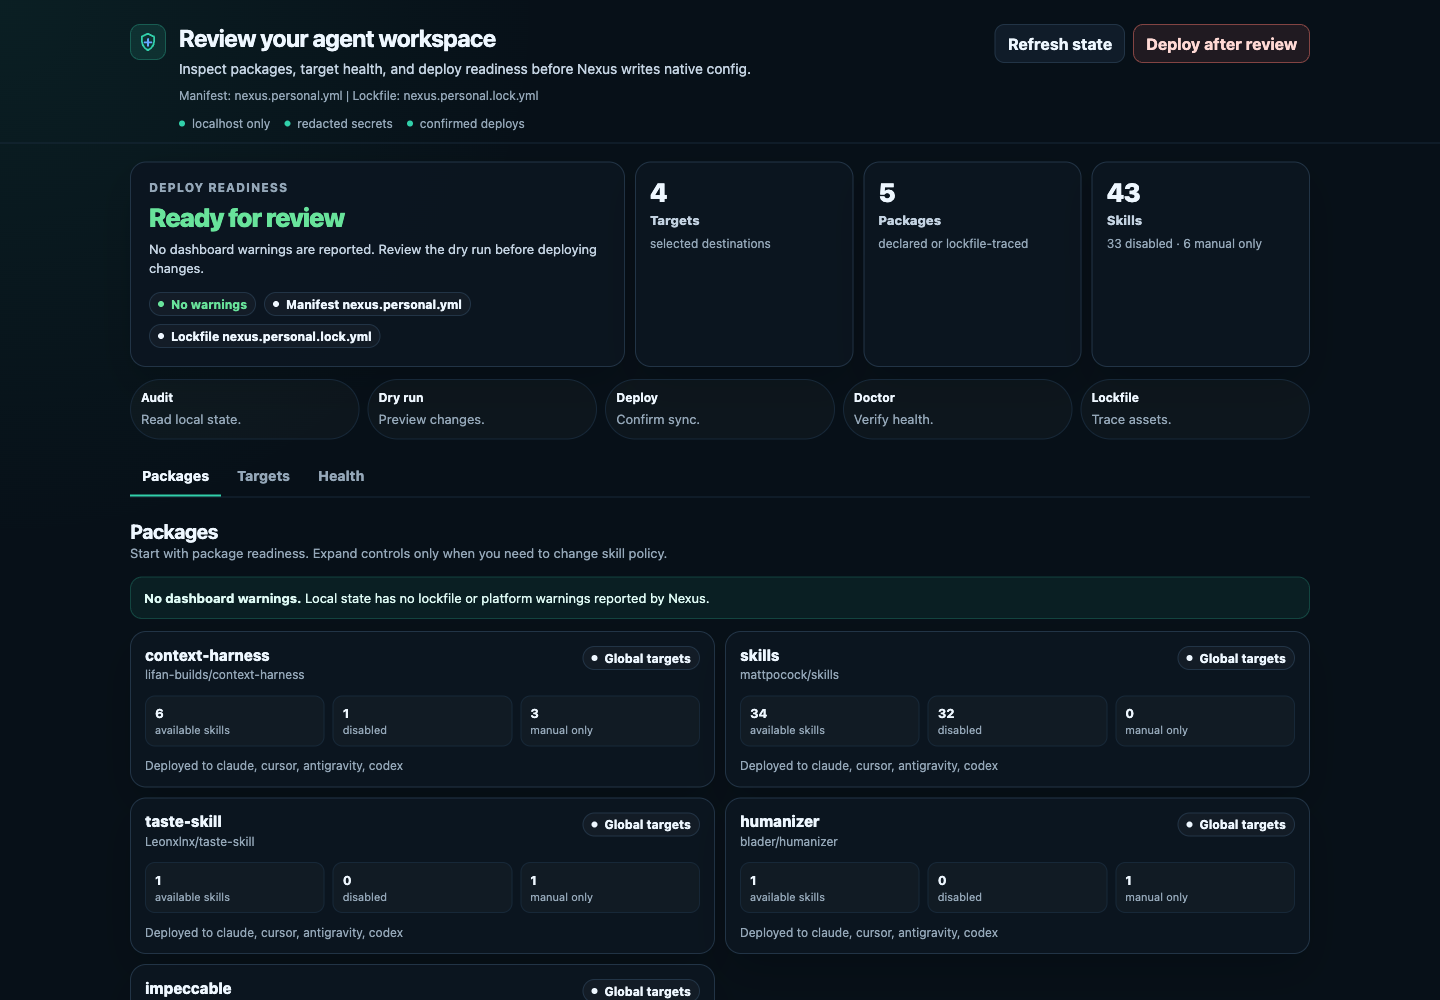
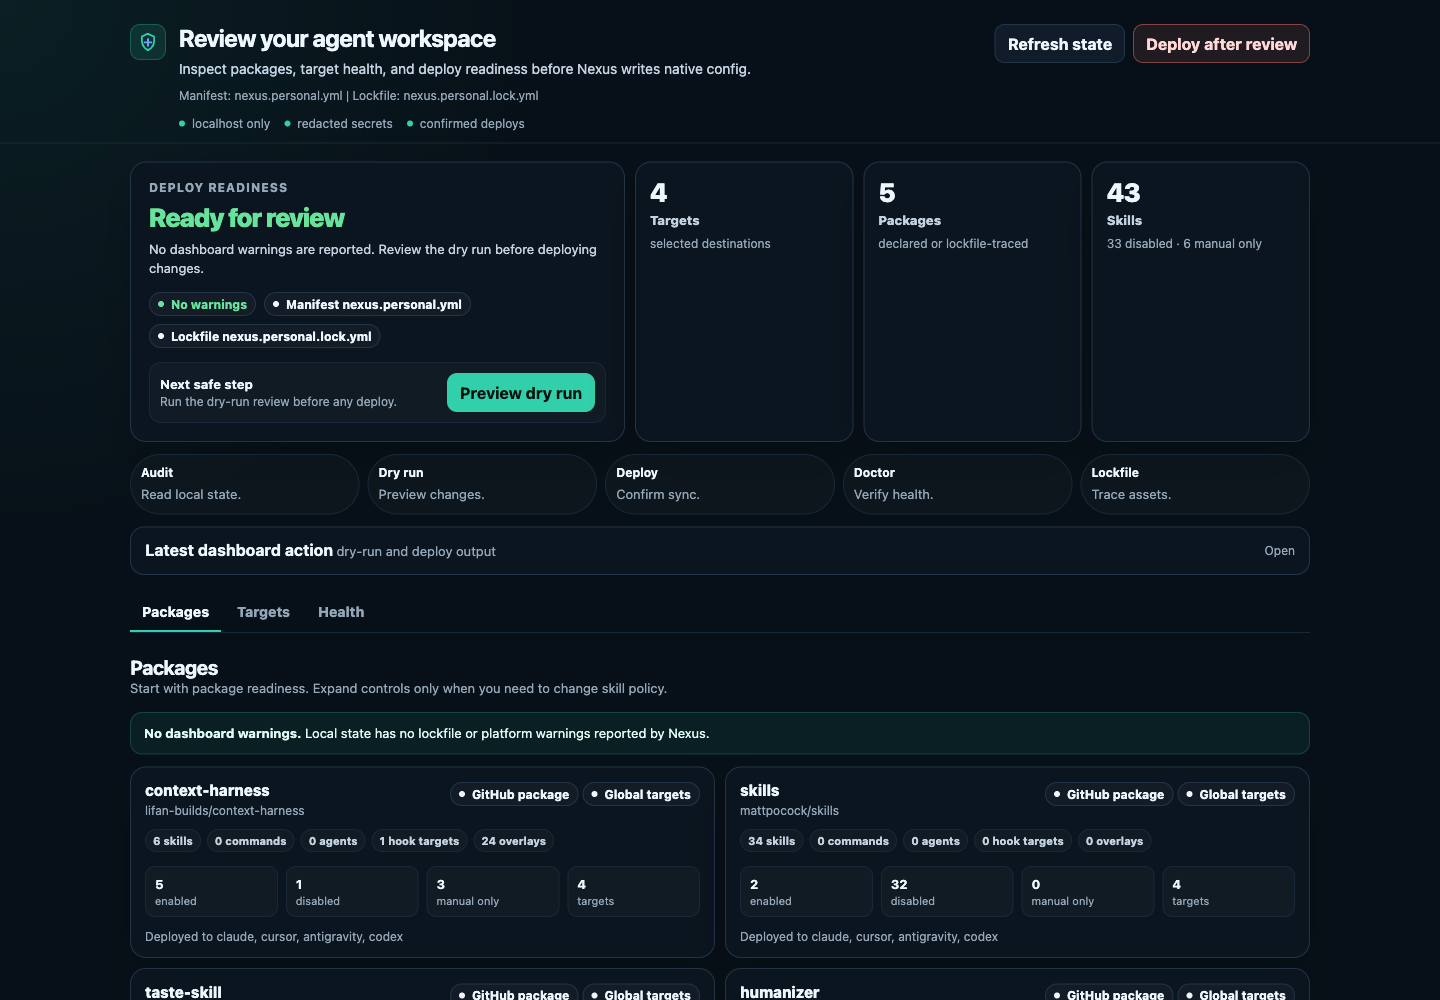
Improve dashboard review workflow
Add an in-dashboard dry-run preview and richer package inventory cards so Nexus better communicates its review-first package workflow.

diff --git a/nexus.py b/nexus.py
@@ -2625,6 +2625,8 @@ def _capture_sync(cfg: Config, args: SimpleNamespace) -> dict:
 
 def run_dashboard_sync_action(cfg: Config, action: str, payload: dict | None = None) -> dict:
     payload = payload or {}
+    if action == "dry-run":
+        return _capture_sync(cfg, SimpleNamespace(all=False, dry_run=True, yes=False))
     if action == "deploy":
         if payload.get("confirm") != "deploy":
             return {"ok": False, "error": "Type deploy to confirm."}
@@ -2715,6 +2717,9 @@ main { padding: 18px 0 44px; }
 .readiness-title { margin-top: 7px; font-size: 26px; font-weight: 860; letter-spacing: -.035em; }
 .readiness-detail { margin-top: 7px; color: var(--text-soft); font-size: 13px; line-height: 1.5; max-width: 52rem; }
 .readiness-meta { display:flex; flex-wrap:wrap; gap: 8px; margin-top: 14px; }
+.next-step { display:flex; align-items:center; justify-content:space-between; gap: 12px; margin-top: 14px; padding: 10px; border:1px solid var(--border-soft); border-radius: 12px; background: rgba(255,255,255,.025); }
+.next-step strong { display:block; font-size: 13px; }
+.next-step span { display:block; margin-top: 3px; color: var(--text-muted); font-size: 12px; }
 .stat-card { padding: 14px; min-height: 142px; }
 .stat-value { font-size: 26px; font-weight: 850; letter-spacing: -.03em; font-variant-numeric: tabular-nums; }
 .stat-label { margin-top: 5px; color: var(--text-soft); font-size: 13px; font-weight: 760; }
@@ -2763,6 +2768,7 @@ details[open] > summary::after { content:"Close"; }
 textarea { width:100%; min-height: 420px; resize: vertical; border:1px solid var(--border); border-radius:12px; padding:14px; background: #06111b; color: var(--code); font: 13px/1.55 ui-monospace, SFMono-Regular, Menlo, Consolas, monospace; }
 pre { overflow:auto; white-space:pre-wrap; background:#06111b; padding:12px; border-radius:10px; border:1px solid var(--border-soft); color: var(--code); font-size:12px; }
 .notice { padding: 11px 13px; background: rgba(49, 208, 170, .08); border:1px solid rgba(49, 208, 170, .22); border-radius: 12px; margin-bottom: 12px; color:#dffbf5; font-size:13px; line-height:1.45; }
+.sync-result { margin-top: 12px; }
 .notice.warn { background: rgba(255, 209, 102, .09); border-color: rgba(255, 209, 102, .26); color: #fff1ca; }
 .empty-state { padding: 14px; border:1px dashed var(--border); border-radius: 12px; color: var(--text-muted); background: rgba(255,255,255,.025); }
 .row-actions { display:flex; flex-wrap:wrap; gap:10px; margin: 12px 0; }
@@ -2775,10 +2781,12 @@ pre { overflow:auto; white-space:pre-wrap; background:#06111b; padding:12px; bor
 .card-top { display:flex; align-items:flex-start; justify-content:space-between; gap: 12px; }
 .card-title { margin:0; font-size: 15px; font-weight: 820; }
 .card-subtitle { margin-top: 4px; color: var(--text-muted); font-size: 12px; word-break: break-word; }
-.card-facts { display:grid; gap: 8px; grid-template-columns: repeat(3, minmax(0, 1fr)); margin-top: 14px; }
+.card-facts { display:grid; gap: 8px; grid-template-columns: repeat(4, minmax(0, 1fr)); margin-top: 14px; }
 .fact { border:1px solid var(--border-soft); border-radius: 10px; padding: 9px; background: rgba(255,255,255,.025); }
 .fact strong { display:block; font-size: 13px; }
 .fact span { display:block; margin-top: 3px; color: var(--text-muted); font-size: 11px; }
+.asset-row { display:flex; flex-wrap:wrap; gap: 6px; margin-top: 12px; }
+.asset-chip { display:inline-flex; align-items:center; gap: 5px; border:1px solid var(--border-soft); border-radius: 999px; padding: 4px 7px; color: var(--text-soft); background: rgba(255,255,255,.025); font-size: 11px; font-weight: 720; }
 .target-group { margin-top: 12px; }
 .target-group-title { color: var(--text-soft); font-size: 12px; font-weight: 780; text-transform: uppercase; letter-spacing: .07em; }
 @media (max-width: 900px) { .topbar { flex-direction:column; } .toolbar { justify-content:flex-start; } .overview-grid { grid-template-columns: repeat(2, minmax(0, 1fr)); } .readiness-card { grid-column: 1 / -1; } .workflow-list, .package-grid, .health-grid { grid-template-columns: repeat(2, minmax(0, 1fr)); } }
@@ -2817,6 +2825,10 @@ pre { overflow:auto; white-space:pre-wrap; background:#06111b; padding:12px; bor
     <div><strong>Doctor</strong><span class="helper">Verify health.</span></div>
     <div><strong>Lockfile</strong><span class="helper">Trace assets.</span></div>
   </div>
+  <details class="sync-result" id="syncResultPanel">
+    <summary><span><strong>Latest dashboard action</strong><span class="helper"> dry-run and deploy output</span></span></summary>
+    <div class="disclosure-body"><pre id="syncResult">No dashboard action has run yet.</pre></div>
+  </details>
   <div class="tabs" role="tablist" aria-label="Dashboard views">
     <button class="tab active" data-tab="inventory" role="tab" aria-selected="true"><strong>Packages</strong></button>
     <button class="tab" data-tab="manage" role="tab" aria-selected="false"><strong>Targets</strong></button>
@@ -2858,6 +2870,9 @@ function sectionIntro(title, subtitle) {
 function table(headers, rows, emptyMessage='No rows yet.') {
   return `<div class="table-wrap"><table><thead><tr>${headers.map(h=>`<th>${esc(h)}</th>`).join('')}</tr></thead><tbody>${rows.join('') || emptyRow(headers.length, emptyMessage)}</tbody></table></div>`;
 }
+function cleanActionOutput(value) {
+  return String(value || '').replace(/\x1b\[[0-9;]*m/g, '').replace(/\/Users\/[^\s\/"]+/g, '~').replace(/\/home\/[^\s\/"]+/g, '~');
+}
 async function api(path, options={}) {
   const res = await fetch(path, {headers:{'Content-Type':'application/json'}, ...options});
   const text = await res.text();
@@ -2880,7 +2895,8 @@ function renderSummary() {
     compactPill(`Manifest ${fileName(state.meta.manifest_path)}`),
     compactPill(`Lockfile ${fileName(state.meta.lockfile_path)}`)
   ];
-  const readiness = `<div class="readiness-card"><div><div class="readiness-label">Deploy readiness</div><div class="readiness-title ${ready ? 'tone-good' : 'tone-warn'}">${esc(title)}</div><div class="readiness-detail">${esc(detail)}</div></div><div class="readiness-meta">${meta.join('')}</div></div>`;
+  const nextStep = `<div class="next-step"><div><strong>Next safe step</strong><span>Run the dry-run review before any deploy.</span></div><button class="primary" data-sync-action="dry-run">Preview dry run</button></div>`;
+  const readiness = `<div class="readiness-card"><div><div class="readiness-label">Deploy readiness</div><div class="readiness-title ${ready ? 'tone-good' : 'tone-warn'}">${esc(title)}</div><div class="readiness-detail">${esc(detail)}</div></div><div><div class="readiness-meta">${meta.join('')}</div>${nextStep}</div></div>`;
   const rows = [
     {label:'Targets', value: state.summary.targets, detail:'selected destinations'},
     {label:'Packages', value: state.summary.packages, detail:'declared or lockfile-traced'},
@@ -2893,8 +2909,21 @@ function renderInventory() {
   const packageCards = (state.packages || []).map(p => {
     const policy = p.skill_policy || {};
     const source = p.repo || p.path || 'manifest package';
+    const sourceType = p.repo ? 'GitHub package' : (p.path ? 'Local package' : 'Lockfile package');
     const targetPolicy = p.uses_global_targets ? 'Global targets' : ((p.deploy_targets || []).join(', ') || 'package filter');
-    return `<article class="package-card"><div class="card-top"><div><h3 class="card-title">${esc(p.name)}</h3><div class="card-subtitle">${esc(source)}</div></div>${compactPill(targetPolicy)}</div><div class="card-facts"><div class="fact"><strong>${esc((p.skill_inventory || []).length)}</strong><span>available skills</span></div><div class="fact"><strong>${esc(policy.disabled_count || 0)}</strong><span>disabled</span></div><div class="fact"><strong>${esc(policy.manual_only_count || 0)}</strong><span>manual only</span></div></div><div class="card-subtitle" style="margin-top:12px">Deployed to ${esc((p.deployed_to || []).join(', ') || 'no targets yet')}</div></article>`;
+    const discovered = p.discovered || {};
+    const commandCount = (discovered.commands || []).length;
+    const agentCount = (discovered.agents || []).length;
+    const overlayCount = (p.overlays || []).length;
+    const hookCount = (p.hooks || []).length;
+    const assets = [
+      `${(p.skill_inventory || []).length} skills`,
+      `${commandCount} commands`,
+      `${agentCount} agents`,
+      `${hookCount} hook targets`,
+      `${overlayCount} overlays`
+    ].map(label => `<span class="asset-chip">${esc(label)}</span>`).join('');
+    return `<article class="package-card"><div class="card-top"><div><h3 class="card-title">${esc(p.name)}</h3><div class="card-subtitle">${esc(source)}</div></div><div>${compactPill(sourceType)} ${compactPill(targetPolicy)}</div></div><div class="asset-row">${assets}</div><div class="card-facts"><div class="fact"><strong>${esc(policy.enabled_count || 0)}</strong><span>enabled</span></div><div class="fact"><strong>${esc(policy.disabled_count || 0)}</strong><span>disabled</span></div><div class="fact"><strong>${esc(policy.manual_only_count || 0)}</strong><span>manual only</span></div><div class="fact"><strong>${esc((p.deployed_to || []).length)}</strong><span>targets</span></div></div><div class="card-subtitle" style="margin-top:12px">Deployed to ${esc((p.deployed_to || []).join(', ') || 'no targets yet')}</div></article>`;
   }).join('') || '<div class="empty-state">No packages configured yet. Add a package to your Nexus manifest, then run sync.</div>';
   const skills = state.skills.map(s => `<tr><td class="name-cell">${esc(s.name)}</td><td>${esc(s.package)}</td><td>${esc(s.implicit_invocation ? 'Implicit' : 'Manual only')}</td><td>${esc((s.deployed_to || []).join(', ') || 'not deployed')}</td><td>${tokenMeter(s.static_tokens, 1, `${s.name} token estimate`)}</td></tr>`);
   const mcps = state.mcps.map(m => `<tr><td class="name-cell">${esc(m.name)}</td><td>${esc(m.optional ? 'Optional' : 'Required')}</td><td>${esc(m.transport || (m.url ? 'http/sse' : 'stdio'))}</td><td>${esc(m.command || m.url || '')}</td><td>${tokenMeter(m.static_tokens, 1, `${m.name} token estimate`)}</td></tr>`);
@@ -2950,7 +2979,10 @@ function renderStatus() {
 }
 async function syncAction(action, confirmText='') {
   const result = await api(`/api/sync/${action}`, {method:'POST', body: JSON.stringify({confirm: confirmText})}).catch(e => ({ok:false, error:e.message}));
-  if (!result.ok) alert(result.error || 'Deploy failed.');
+  const output = [result.stderr, result.stdout, result.error].filter(Boolean).join('\n').trim() || JSON.stringify(result, null, 2);
+  document.getElementById('syncResult').textContent = cleanActionOutput(output);
+  document.getElementById('syncResultPanel').open = true;
+  if (!result.ok) alert(result.error || 'Dashboard action failed.');
   await refresh();
 }
 document.querySelectorAll('.tab').forEach(btn => btn.onclick = () => {
@@ -2960,7 +2992,10 @@ document.querySelectorAll('.tab').forEach(btn => btn.onclick = () => {
   btn.setAttribute('aria-selected', 'true');
   document.getElementById(btn.dataset.tab).classList.add('active');
 });
-document.addEventListener('click', event => { if (event.target.matches('[data-save-package]')) savePackageSkillPolicy(event.target.dataset.savePackage); });
+document.addEventListener('click', event => {
+  if (event.target.matches('[data-save-package]')) savePackageSkillPolicy(event.target.dataset.savePackage);
+  if (event.target.matches('[data-sync-action]')) syncAction(event.target.dataset.syncAction);
+});
 document.getElementById('refreshBtn').onclick = refresh;
 document.getElementById('deployBtn').onclick = () => { const c = prompt('Type deploy to run nexus sync.'); if (c) syncAction('deploy', c); };
 refresh().catch(e => document.body.insertAdjacentHTML('afterbegin', `<pre>${esc(e.stack || e.message)}</pre>`));
@@ -3002,6 +3037,10 @@ def make_dashboard_handler(repo_dir: Path):
                     result = update_manifest_package_skill_policy(self._cfg(), payload)
                     self._refresh_cfg()
                     _json_response(self, 200, result)
+                elif self.path == "/api/sync/dry-run":
+                    result = run_dashboard_sync_action(self._refresh_cfg(), "dry-run", payload)
+                    self._refresh_cfg()
+                    _json_response(self, 200 if result.get("ok") else 400, result)
                 elif self.path == "/api/sync/deploy":
                     result = run_dashboard_sync_action(self._refresh_cfg(), "deploy", payload)
                     self._refresh_cfg()

diff --git a/tests/test_nexus.py b/tests/test_nexus.py
@@ -1330,6 +1330,7 @@ def test_dashboard_html_includes_safety_and_api_hooks():
     assert "/api/state" in html
     assert "/api/sync/deploy" in html
     assert "/api/packages/skills/save" in html
+    assert "data-sync-action=\"dry-run\"" in html
     assert "Type deploy" in html
     assert "Manual only" in html
     assert "localhost only" in html
@@ -1404,6 +1405,16 @@ def test_cmd_dashboard_json_outputs_valid_json(tmp_path, capsys):
     captured = capsys.readouterr()
     data = json.loads(captured.out)
     assert data["meta"]["nexus_version"] == nexus.NEXUS_VERSION
+
+
+def test_dashboard_dry_run_does_not_require_confirmation(tmp_path):
+    cfg = _fake_cfg(tmp_path, tmp_path / "codex-home")
+    cfg.data = {"packages": [], "mcps": [], "targets": ["codex"]}
+
+    result = nexus.run_dashboard_sync_action(cfg, "dry-run", {})
+
+    assert result["ok"] is True
+    assert "Dry run" in result["stderr"]
 
 
 def test_dashboard_deploy_requires_confirmation(tmp_path):

diff --git a/README.md b/README.md
@@ -173,9 +173,10 @@ nexus sync --yes
 nexus dashboard
 ```
 
-The dashboard is a localhost-only review surface for the same workflow as the CLI:
+The dashboard is a localhost-only review console for the same workflow as the CLI:
 
-- Inspect packages, skills, MCP servers, target health, and lockfile state.
+- Start with deploy readiness and the next safe step: preview the dry-run review.
+- Inspect package source, discovered assets, skill policy, MCP servers, target health, and lockfile state.
 - Tune package skill policy and global target policy in the manifest.
 - Run deploy only after the dashboard asks you to type `deploy`.
 
